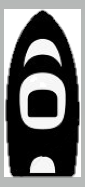
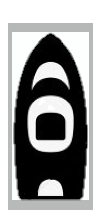
imgae changes

diff --git a/PTClient/GUI/Map/CaptainScreen.cs b/PTClient/GUI/Map/CaptainScreen.cs
@@ -96,7 +96,7 @@ namespace PTClient.GUI.Map
                 gmap.Invoke(new Action(() => vesselOverlay.Clear()));
                 VesselMarker vessel = new VesselMarker("Boat1", boat.GetNextLatitude(), boat.GetNextLongtitude());
                 Bitmap Image = new Bitmap(vessel.Image);
-                Bitmap resized = new Bitmap(Image, new Size(20, 40));
+                Bitmap resized = new Bitmap(Image, new Size(30, 50));
                 Bitmap rotated = controller.rotateImage(resized, boat.getDirection());
                 GMarkerGoogle marker = new GMarkerGoogle(new PointLatLng(vessel.Latitude, vessel.Longitude), new Bitmap(rotated));
                 gmap.Invoke(new Action(() => vesselOverlay.Markers.Add(marker)));

diff --git a/PTClient/GUI/Map/MapControl.cs b/PTClient/GUI/Map/MapControl.cs
@@ -28,7 +28,7 @@ namespace PTClient.GUI.Map
             foreach (TurbineMarker obj in markers)
             {
                 Bitmap Image = new Bitmap(obj.Image);
-                Bitmap resized = new Bitmap(Image, new Size(20, 40));
+                Bitmap resized = new Bitmap(Image, new Size(30, 40));
 
                 double lat = obj.Latitude;
                 double lon = obj.Longitude;
